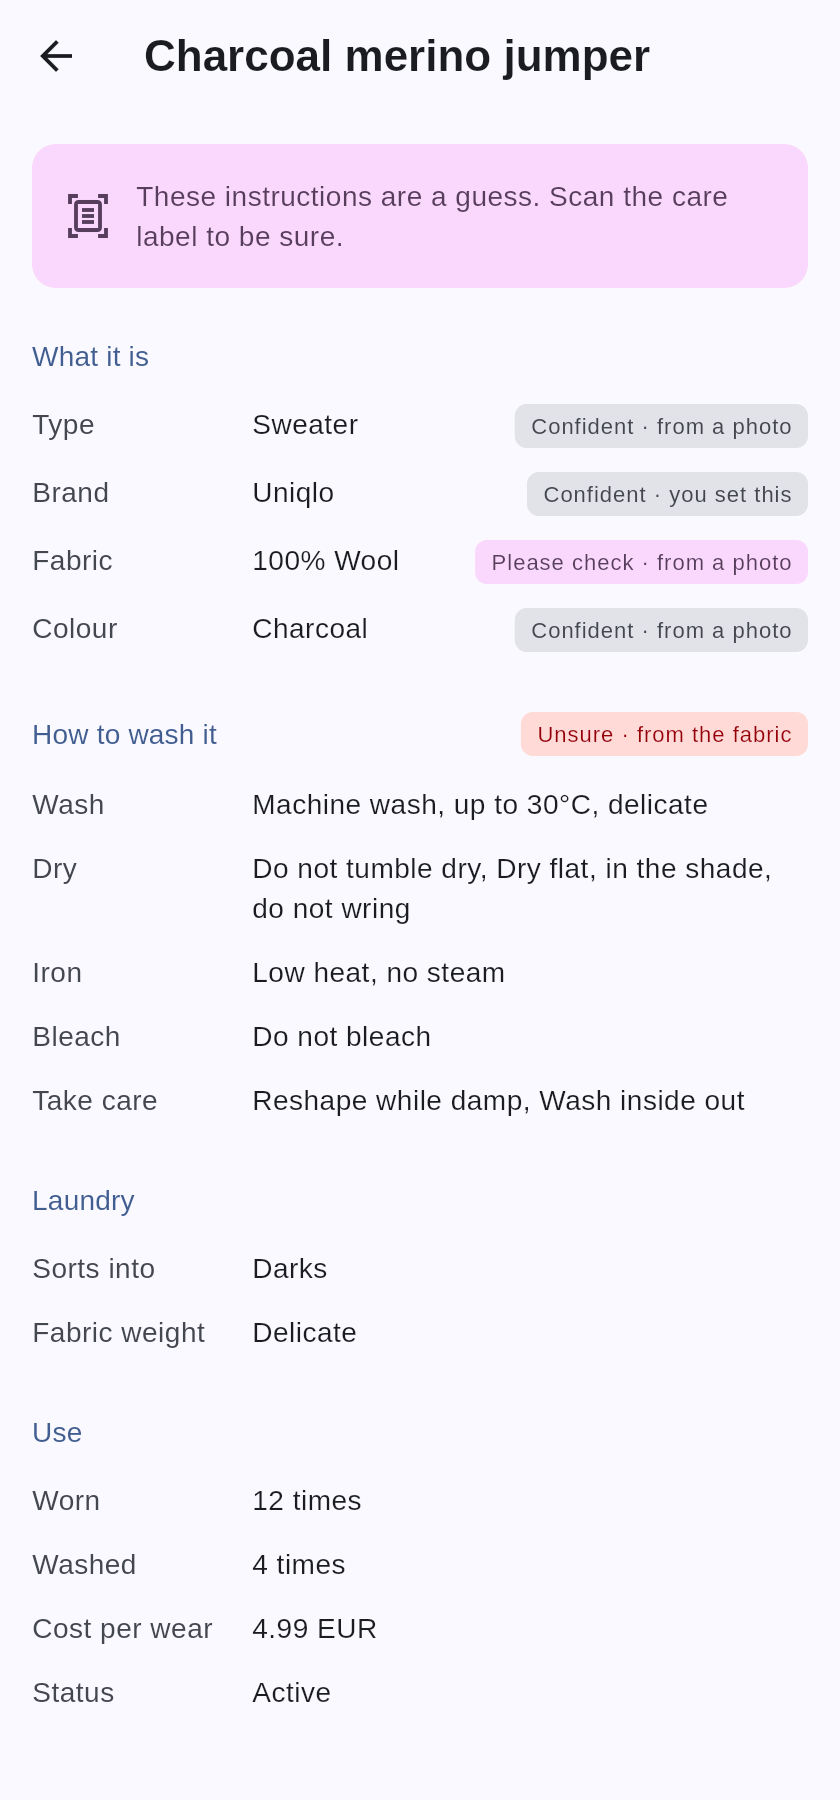
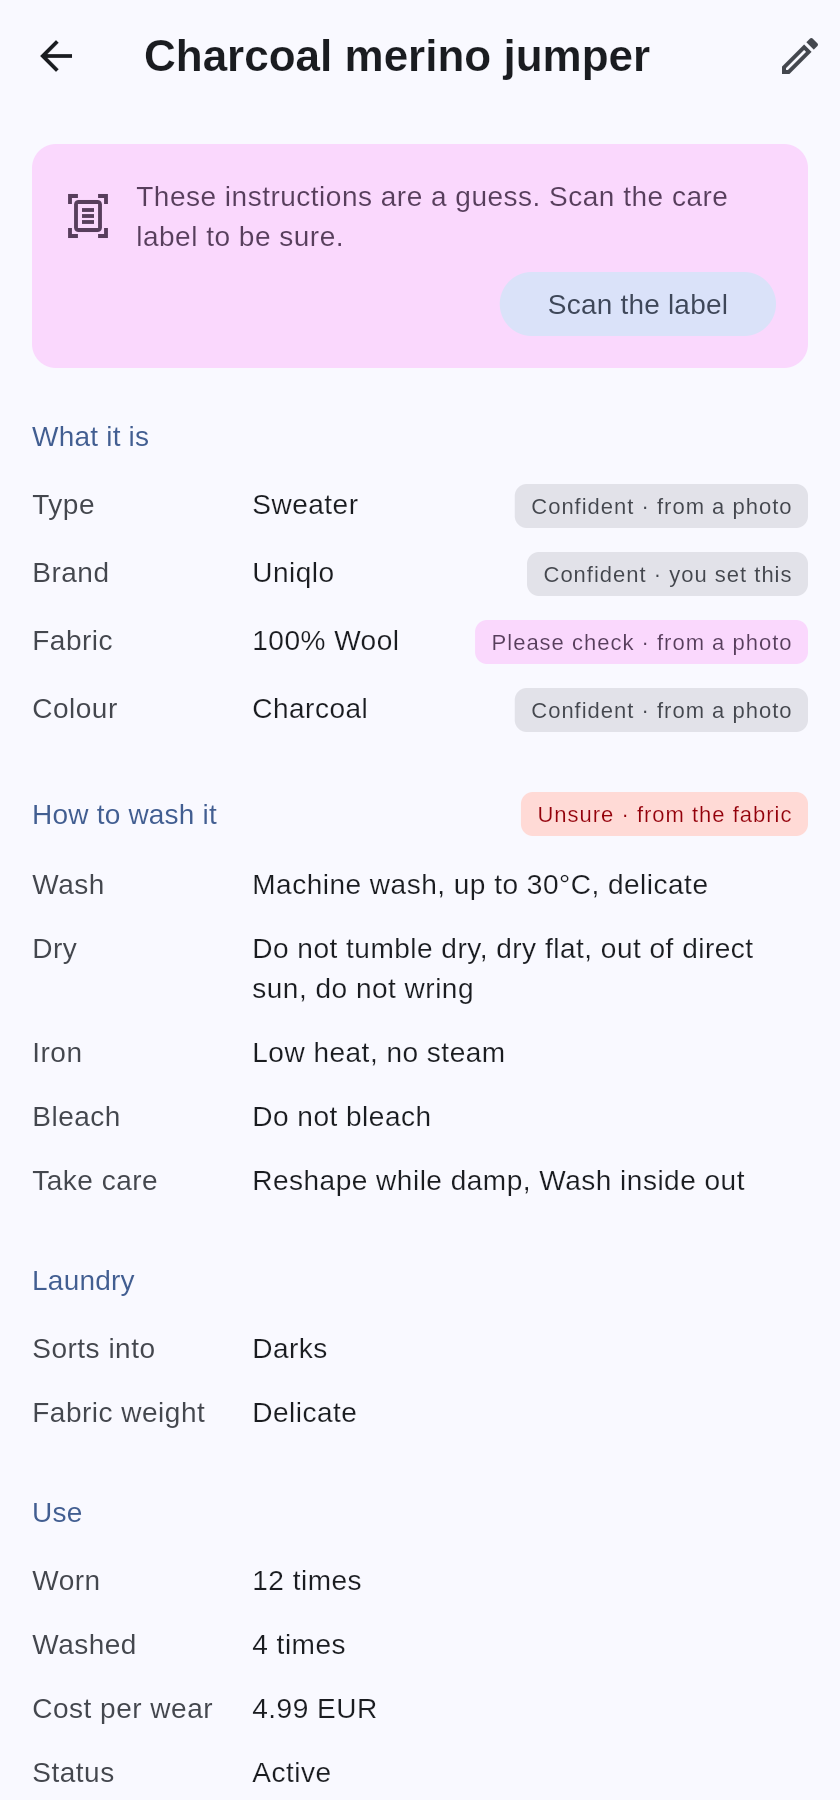
feat(app)+docs: care-label and edit screenshots, and drying that reads correctly
The demo seeds a superwash care label, so the label-review screenshot shows
the case the screen exists for: four instructions struck through and replaced
by the manufacturer's.

Capturing it found a wording bug. `drySummary` comma-joined the tumble and
natural methods, producing "Tumble dry low heat, Dry flat" — which reads as
two instructions that contradict each other. When a dryer is permitted the
natural method is an alternative and now says "or dry flat"; when it is
forbidden it genuinely is the instruction and the comma stays.

Claude-Session: https://claude.ai/code/session_0178i32JANfVzKTZhpfPaiNv

diff --git a/app/lib/main_demo.dart b/app/lib/main_demo.dart
@@ -112,6 +112,32 @@ class _CannedGateway extends AiGateway {
       suggestedName: 'Slate wool jumper',
     );
   }
+
+  @override
+  Future<CareTagScanResult> scanCareTag(ScanImage image) async {
+    await Future<void>.delayed(const Duration(milliseconds: 700));
+
+    // A superwash label: it permits things the generic wool rule forbids, which
+    // is the case the review screen exists to surface.
+    return CareTagScanResult(
+      instructions: const CareConstraint(
+        method: WashMethod.machine,
+        maxTempC: 40,
+        agitation: Agitation.mild,
+        tumbleDryAllowed: true,
+        tumbleDryHeat: TumbleDryHeat.low,
+        ironTemperature: IronTemperature.low,
+      ),
+      confidence: 0.91,
+      composition: Confident(
+        FabricComposition(const {Fiber.wool: 80, Fiber.nylon: 20}),
+        confidence: 0.94,
+        source: Provenance.tagScan,
+      ),
+      symbolsFound: const ['wash_40', 'tumble_low', 'iron_low', 'no_bleach'],
+      unreadableSymbolCount: 1,
+    );
+  }
 }
 
 /// A small wardrobe covering the cases the UI has to handle.
@@ -134,6 +160,7 @@ List<WardrobeItem> _seed() {
     double compositionConfidence = 0.9,
     Provenance compositionSource = Provenance.tagScan,
     CareProfile? care,
+    Confident<CareConstraint>? careLabel,
     UsageStats usage = const UsageStats.none(),
     bool isFavorite = false,
     int addedDaysAgo = 0,
@@ -158,6 +185,7 @@ List<WardrobeItem> _seed() {
         source: Provenance.aiInference,
       ),
       brand: brand == null ? null : Confident.fromUser(brand),
+      careLabel: careLabel,
       care: const CareProfile.unknown(),
       usage: usage,
       isFavorite: isFavorite,
@@ -170,11 +198,7 @@ List<WardrobeItem> _seed() {
     // shows what the rule table actually concludes rather than hand-written
     // instructions that could quietly disagree with it.
     return item.copyWith(
-      care:
-          care ??
-          const CareResolver()
-              .resolve(facts: item.facts, factsConfidence: item.factsConfidence)
-              .profile,
+      care: care ?? const CareResolver().forItem(item).profile,
     );
   }
 
@@ -206,6 +230,19 @@ List<WardrobeItem> _seed() {
       hex: '#F4F4F2',
       colorName: 'White',
       brand: 'Everlane',
+      // Its label has been read, so this one is advice from the manufacturer
+      // rather than from a rule — and the app stops asking to scan it.
+      careLabel: Confident(
+        const CareConstraint(
+          method: WashMethod.machine,
+          maxTempC: 40,
+          agitation: Agitation.normal,
+          tumbleDryAllowed: true,
+          tumbleDryHeat: TumbleDryHeat.medium,
+        ),
+        confidence: 0.95,
+        source: Provenance.tagScan,
+      ),
       usage: const UsageStats(timesWorn: 31, timesWashed: 22),
       addedDaysAgo: 120,
     ),

diff --git a/app/lib/features/wardrobe/care_text.dart b/app/lib/features/wardrobe/care_text.dart
@@ -20,15 +20,26 @@ String washSummary(WashCare wash) {
   ].join(', ');
 }
 
-String drySummary(DryCare dry) => [
-  if (dry.tumbleDryAllowed)
-    'Tumble dry ${dry.tumbleDryHeat.label.toLowerCase()}'
-  else
-    'Do not tumble dry',
-  if (dry.naturalDry case final NaturalDryMethod method) method.label,
-  if (dry.dryInShade) 'in the shade',
-  if (dry.doNotWring) 'do not wring',
-].join(', ');
+String drySummary(DryCare dry) {
+  // When a dryer is permitted, the natural method is an *alternative* and has
+  // to read as one. Comma-joining them gave "Tumble dry low heat, Dry flat",
+  // which reads as two instructions that contradict each other. When a dryer
+  // is forbidden it genuinely is the instruction, so the comma is right there.
+  final natural = dry.naturalDry?.label.toLowerCase();
+
+  final drying = dry.tumbleDryAllowed
+      ? [
+          'Tumble dry ${dry.tumbleDryHeat.label.toLowerCase()}',
+          if (natural != null) 'or $natural',
+        ].join(', ')
+      : ['Do not tumble dry', ?natural].join(', ');
+
+  return [
+    drying,
+    if (dry.dryInShade) 'out of direct sun',
+    if (dry.doNotWring) 'do not wring',
+  ].join(', ');
+}
 
 String ironSummary(IronCare iron) {
   if (!iron.isIronable) return 'Do not iron';

diff --git a/README.md b/README.md
@@ -17,27 +17,33 @@ The domain core, the perception backend and the Flutter app all run. See
 |---|---|---|
 | 1 | Domain core: care model, sorting engine, machine translation, matching, events | **Done** — 297 tests |
 | 2 | FastAPI backend, AI orchestrator, Gemini provider, knowledge cache | **Done** — 112 tests |
-| 3 | Flutter app: wardrobe, item detail, scan flow, Drift storage | **Done** — 50 tests |
-| 4 | Care-tag scanning UI, filter sheet, item editing | Next |
+| 3 | Flutter app: wardrobe, item detail, scan flow, Drift storage | **Done** — 70 tests |
+| 4 | Care-tag scanning UI, item editing, filter sheet | **Done** |
 | 5 | Pile scanning and batch processing | |
 | 6 | Outfits, packing, analytics | |
 | 7 | Offline sync, Supabase, store preparation | |
 
 ## What it looks like
 
-| Wardrobe | Item detail | Scan review |
-|---|---|---|
-| ![Wardrobe list](app/docs/screenshots/wardrobe-light.png) | ![Item detail](app/docs/screenshots/item-detail-light.png) | ![Scan review](app/docs/screenshots/scan-review.png) |
+| Wardrobe | Item detail | Scan review | Care label |
+|---|---|---|---|
+| ![Wardrobe list](app/docs/screenshots/wardrobe-light.png) | ![Item detail](app/docs/screenshots/item-detail-light.png) | ![Scan review](app/docs/screenshots/scan-review.png) | ![Care label review](app/docs/screenshots/care-label-review.png) |
 
 These are captures of the real app, not mock-ups — a web build of
 `app/lib/main_demo.dart`, which is the shipping code with storage, the camera
 and the backend substituted. See [ADR 8](docs/adr/0008-app-layering-and-the-capture-seam.md).
 
-Note what the middle screenshot is doing. The fabric was read from a
+Note what the third screenshot is doing. The fabric was read from a
 photograph, so it is marked *"Please check · from a photo"*, and the care
 derived from it is marked *"Unsure · from the fabric"* with a prompt to scan
 the label. A care instruction the app is guessing at looks different from one
 it read off the garment, because acting on the wrong one shrinks a jumper.
+
+The fourth is what happens when that label is scanned: the manufacturer says
+this wool jumper may be machine washed at 40° and tumble dried on low, so the
+generic wool rule is struck through and overruled. Knowing *which* garments
+are exceptions to their own fabric is the thing a laundry app can tell you
+that reading the label yourself each time cannot.
 
 ## Layout
 
